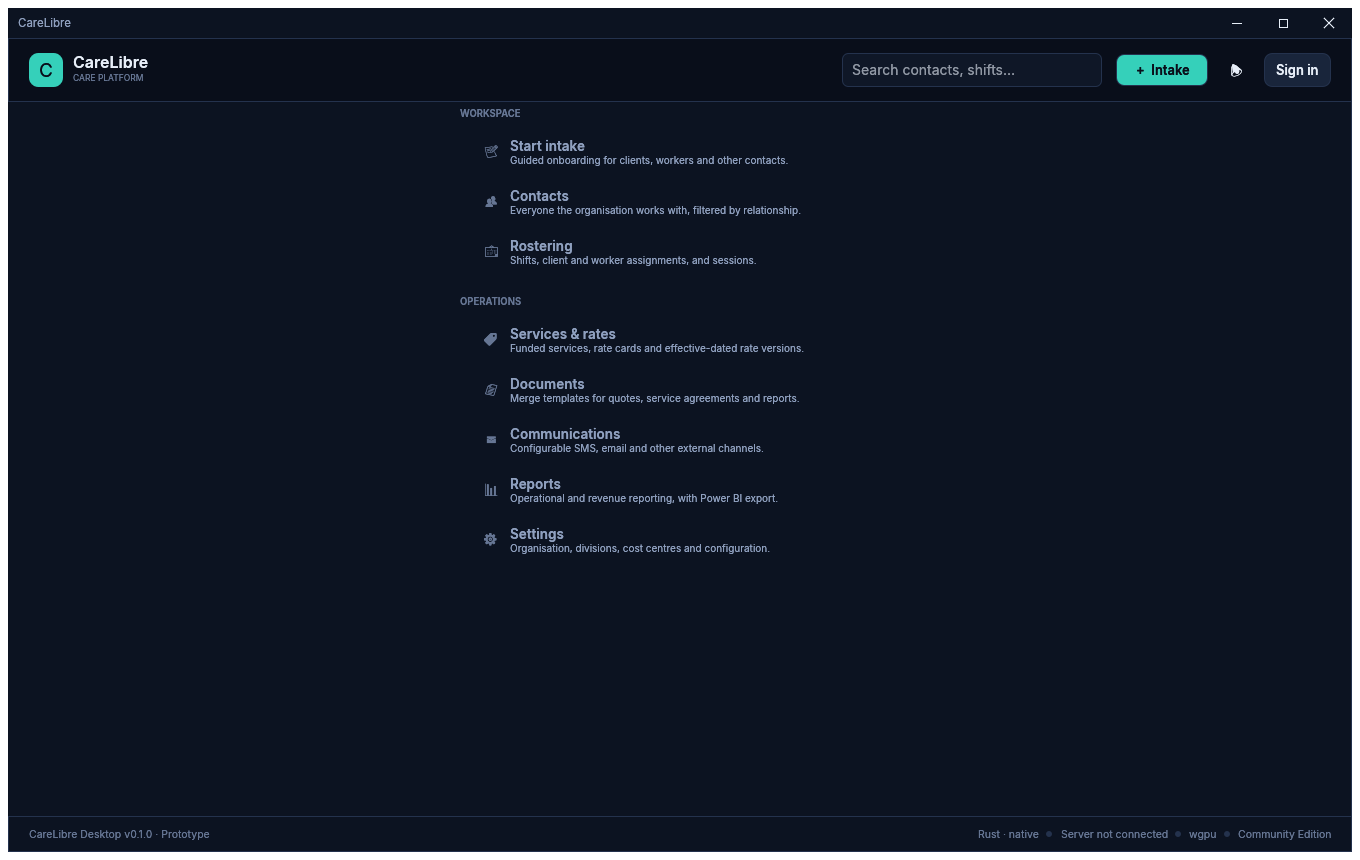
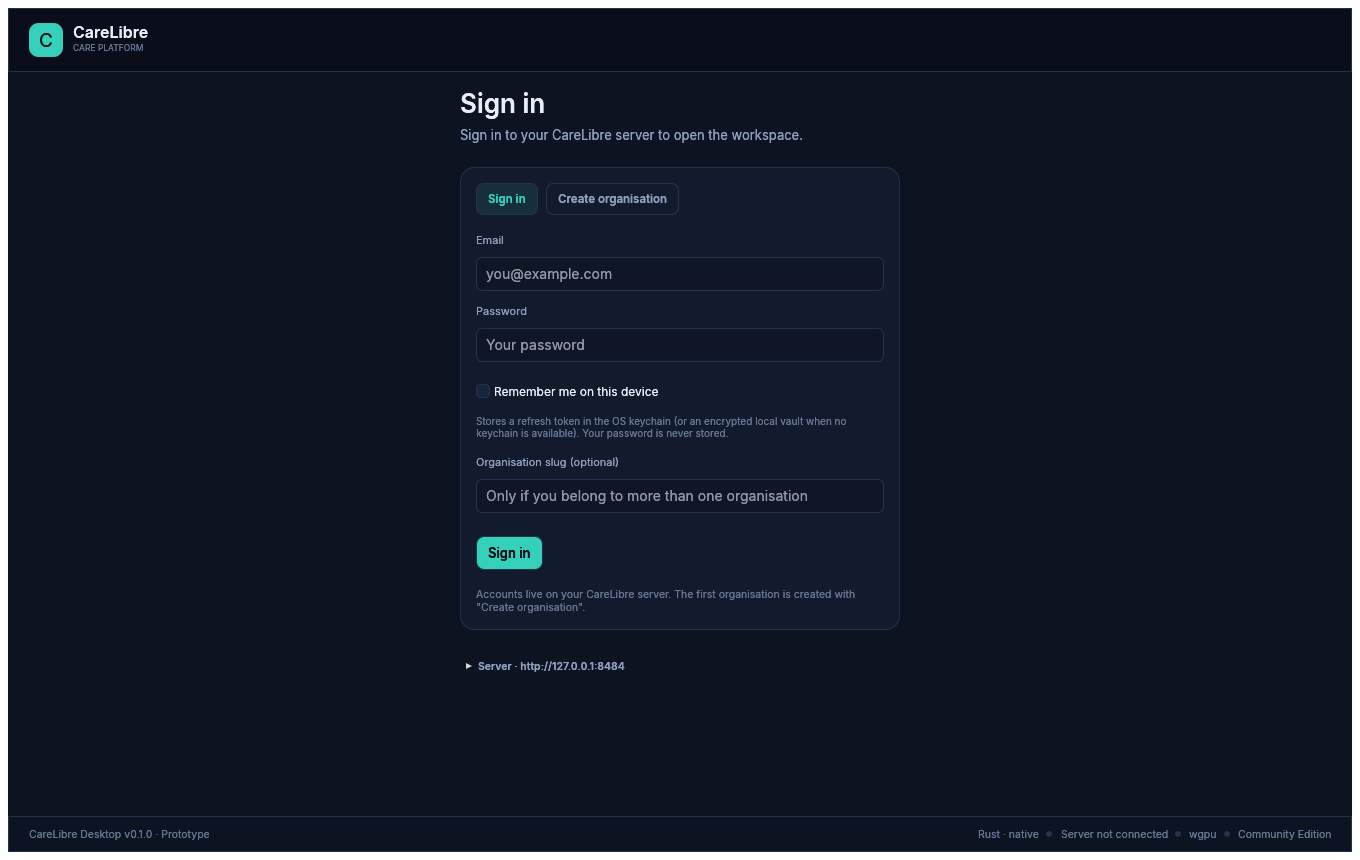
Update launch docs for the signed-out screen

diff --git a/README.md b/README.md
@@ -17,7 +17,7 @@ open-source care management platform for disability and aged care providers.
 
 <table>
   <tr>
-    <td align="center" colspan="3"><a href="docs/launch.png"><img src="docs/thumbs/launch.png" alt="CareLibre centred launch menu"></a><br><sub><b>Launch</b> — a centred menu until the first column opens</sub></td>
+    <td align="center" colspan="3"><a href="docs/launch.png"><img src="docs/thumbs/launch.png" alt="CareLibre signed-out launch screen"></a><br><sub><b>Launch</b> — sign in before the workspace opens</sub></td>
   </tr>
   <tr>
     <td align="center"><a href="docs/contacts.png"><img src="docs/thumbs/contacts.png" alt="CareLibre contacts workspace"></a><br><sub><b>Contacts</b> — live directory with role filters and search</sub></td>
@@ -100,15 +100,18 @@ cargo run
 The client talks to the CareLibre Server REST API. A local development server listens
 on `http://127.0.0.1:8484` by default.
 
-Open **Settings** in the sidebar to:
+While signed out, the launch screen replaces the main menu with the sign-in form.
+Use it to:
 
 - change the server URL (saved to the platform config directory)
 - check liveness and database readiness (`/healthz` and `/readyz`)
 - sign in, or create the first organisation with an owner account
-- sign out and inspect the active organisation and edition
-- choose Light, Dark or Follow System appearance (Follow System by default)
-- choose client-side or native window decorations
 - remember your sign-in securely on this device
+
+No workspace pages, records or account data are rendered until a session is
+active. After signing in, **Settings** shows the active account and organisation,
+lets you sign out, and keeps the server, appearance and window preferences. The
+sign-in form is never shown again inside Settings.
 
 The connection is checked every 15 seconds and the status is shown in the status bar.
 Signing in is required for all contact data and intake completion: the desktop no longer
@@ -263,6 +266,12 @@ desktop exchanges it for a fresh access token and restores the session before lo
 contacts. The token is encrypted at rest through the OS credential store, with an
 encrypted local-vault fallback for minimal environments. Passwords are never saved.
 
+The sign-in form lives on the launch/main-menu surface and only appears while no
+session is active. When you are signed in, Settings shows your account, organisation
+and sign-out control, and never repeats the sign-in form. Signing out or losing a
+session closes the workspace and any detached windows, so no records or pages remain
+visible without an account.
+
 ## Server data and performance
 
 Contacts are read from `GET /api/v1/contacts` and detail/custom-field data from
@@ -332,7 +341,7 @@ cargo run --example screenshot -- docs/worker-qualities.png workers --live --con
 | `src/perf.rs` | F12 performance HUD |
 | `src/theme.rs` | Palette, typography and shared card/pill widgets |
 | `src/rostering.rs` | Rostering API models and local-time conversion |
-| `src/pages/` | One module per area: `contacts.rs` virtualised list, `contact_editor.rs` record editor, `rostering.rs` shifts and suitability, `intake/` wizards, `settings.rs` connection/account UI |
+| `src/pages/` | One module per area: `contacts.rs` virtualised list, `contact_editor.rs` record editor, `rostering.rs` shifts and suitability, `intake/` wizards, `settings.rs` connection, account and application UI |
 | `assets/fonts/` | Bundled Inter font (SIL OFL 1.1) and licence |
 | `examples/screenshot.rs` | Headless renderer used for snapshots |
 | `tests/ui.rs` | Headless rendering and sidebar navigation tests |
